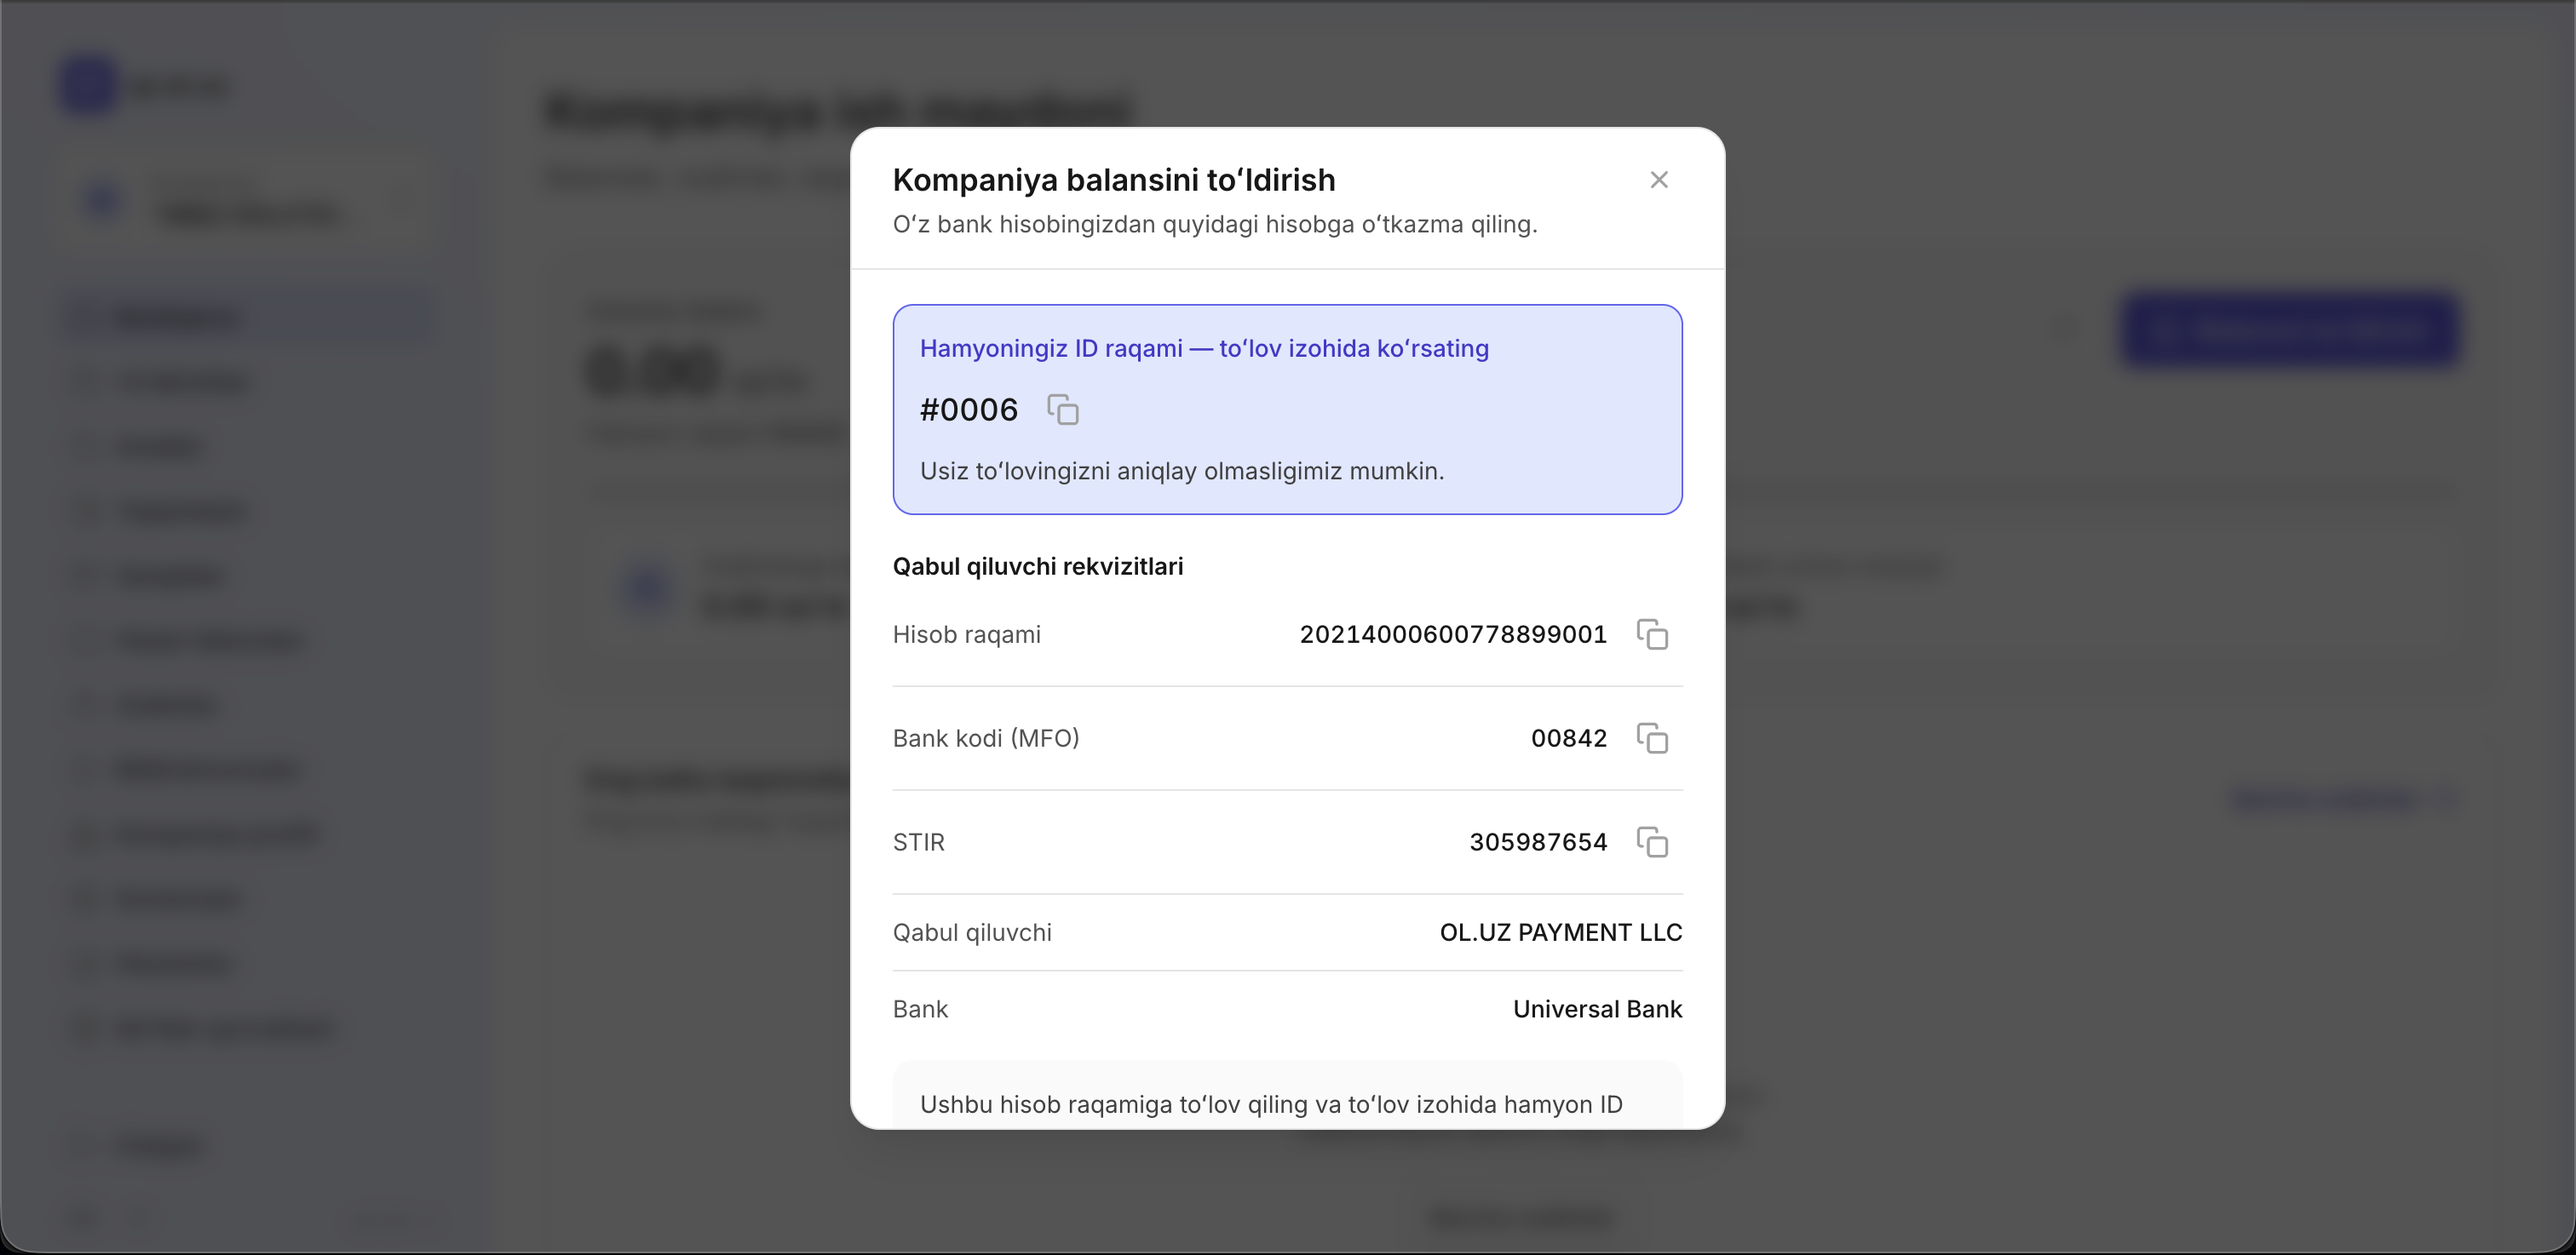
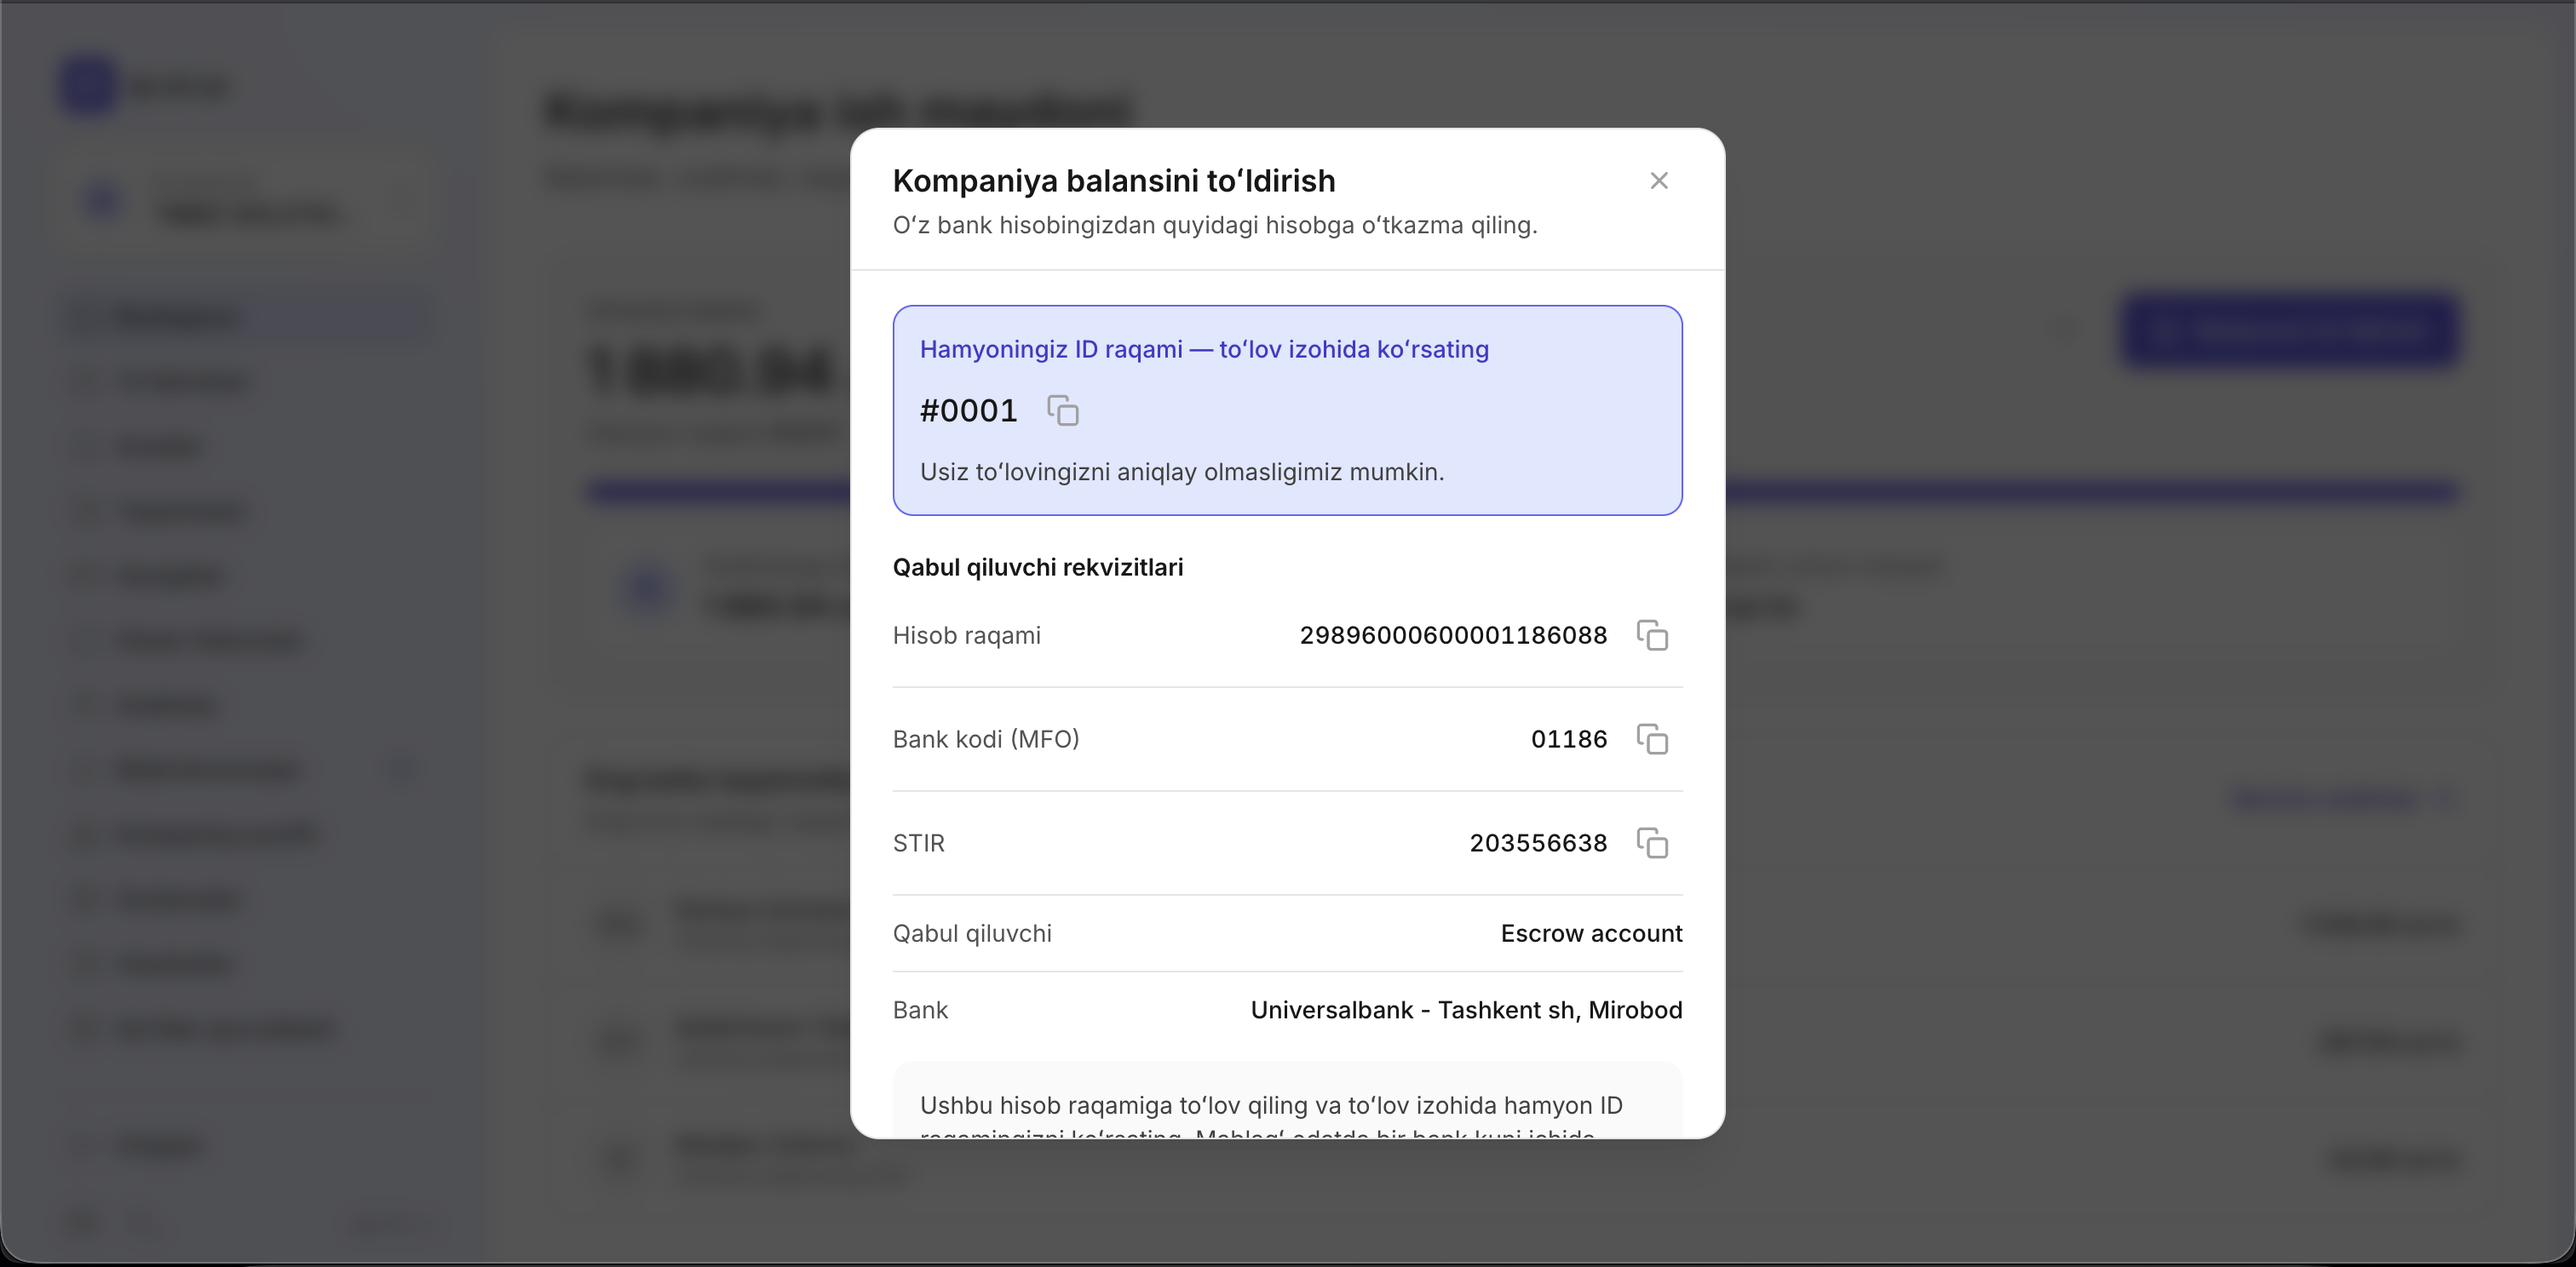
fix: Adjust formatting and improve clarity in kompaniya.md

diff --git a/docs/kompaniya.md b/docs/kompaniya.md
@@ -5,7 +5,7 @@ Ushbu bo'limda kompaniyani ro'yxatdan o'tkazish, balansni to'ldirish, xodimlar q
 ## Ro'yxatdan o'tish
 
 !!! note "Oldindan tayyorlang"
-    Ro'yxatdan o'tish uchun [inbiz.uz](https://inbiz.uz/uz/) platformasida tasdiqlangan yuridik shaxs (kompaniya) hisobingiz va uning **e-imzo** sertifikati bo'lishi kerak.
+Ro'yxatdan o'tish uchun [inbiz.uz](https://inbiz.uz/uz/) platformasida tasdiqlangan yuridik shaxs (kompaniya) hisobingiz va uning **e-imzo** sertifikati bo'lishi kerak.
 
 1. [https://qr.ol.uz/uz/register](https://qr.ol.uz/uz/register) sahifasiga kiring.
 2. «qr.ol.uz'dan qanday foydalanasiz?» degan savolga **Kompaniya** variantini tanlang.
@@ -14,7 +14,7 @@ Ushbu bo'limda kompaniyani ro'yxatdan o'tkazish, balansni to'ldirish, xodimlar q
 ![Ro'yxatdan o'tish sahifasi — Kompaniya varianti tanlangan](images/start_register_page.png)
 
 !!! tip "Avval ro'yxatdan o'tganmisiz?"
-    Xuddi shu tugma orqali tizimga qayta kirasiz — alohida «kirish» jarayoni shart emas.
+Xuddi shu tugma orqali tizimga qayta kirasiz — alohida «kirish» jarayoni shart emas.
 
 ### inbiz orqali kirish
 
@@ -31,15 +31,15 @@ Keyin inbiz sizdan qr.ol.uz bilan ma'lumot ulashishni tasdiqlashni so'raydi. **T
 inbiz'dan qaytganingizdan so'ng qr.ol.uz telefon raqamingizni so'raydi. Bu — oxirgi qadam: raqamingizni tasdiqlasangiz, keyingi safar e-imzosiz, faqat telefon raqami va SMS kod bilan kira olasiz.
 
 !!! warning "Bu qadamni o'tkazib yubormang"
-    Telefon raqamini tasdiqlamasangiz, har safar e-imzo bilan kirishga to'g'ri keladi.
+Telefon raqamini tasdiqlamasangiz, har safar e-imzo bilan kirishga to'g'ri keladi.
 
 1. Telefon raqamingizni kiriting va **Kod yuborish** tugmasini bosing.
 
-    ![Telefon raqamini kiritish sahifasi](images/redirected_phone_entry.png)
+   ![Telefon raqamini kiritish sahifasi](images/redirected_phone_entry.png)
 
 2. SMS orqali kelgan 6 xonali kodni kiriting va **Tasdiqlash** tugmasini bosing.
 
-    ![SMS kodni tasdiqlash sahifasi](images/redirected_otp_confirm.png)
+   ![SMS kodni tasdiqlash sahifasi](images/redirected_otp_confirm.png)
 
 Shu bilan ro'yxatdan o'tish yakunlanadi va siz kompaniya ish maydoniga o'tasiz.
 
@@ -53,7 +53,7 @@ Birinchi qiladigan ishingiz — **PIN kod** o'rnatish. Bu 5 xonali raqamli kod b
 ![Sozlamalar sahifasi — PIN kod bo'limi](images/settings_page.png)
 
 !!! info "Bitta PIN — barcha akkauntlar uchun"
-    PIN kod akkauntga emas, shaxsingizga bog'lanadi: kompaniya, merchant va xodim akkauntlaringizning barchasida bitta PIN ishlaydi. Uni bir joyda o'zgartirsangiz, hamma qurilma va akkauntlarda o'zgaradi.
+PIN kod akkauntga emas, shaxsingizga bog'lanadi: kompaniya, merchant va xodim akkauntlaringizning barchasida bitta PIN ishlaydi. Uni bir joyda o'zgartirsangiz, hamma qurilma va akkauntlarda o'zgaradi.
 
 ## Boshqaruv paneli
 
@@ -72,7 +72,7 @@ Kompaniya balansi bank o'tkazmasi orqali to'ldiriladi:
 
 1. Boshqaruv panelidagi **Balansni to'ldirish** tugmasini bosing — to'ldirish bo'yicha ko'rsatma ochiladi.
 2. Ko'rsatmada qr.ol.uz platformasining bank rekvizitlari (hisob raqami, MFO, STIR) ko'rsatilgan. Kompaniyangiz bank hisobidan aynan shu hisobga o'tkazma qiling.
-3. **To'lov izohida hamyoningiz ID raqamini (masalan, `#0006`) albatta ko'rsating** — usiz to'lovingiz qaysi kompaniyaga tegishli ekanini aniqlab bo'lmasligi mumkin.
+3. **To'lov izohida hamyoningiz ID raqamini (masalan, `#0001`) albatta ko'rsating** — usiz to'lovingiz qaysi kompaniyaga tegishli ekanini aniqlab bo'lmasligi mumkin.
 
 ![Balansni to'ldirish ko'rsatmasi — bank rekvizitlari](images/topup_instructions.png)
 
@@ -86,18 +86,18 @@ Chap menyudan **Xodimlar** sahifasiga o'ting. Bu yerda kompaniyangizga qo'shilga
 
 Yangi xodim qo'shish uchun **Xodim qo'shish** tugmasini bosing va quyidagi ma'lumotlarni kiriting:
 
-| Maydon | Izoh |
-| --- | --- |
-| Familiya, Ism | Majburiy |
-| Otasining ismi | Ixtiyoriy |
-| JSHSHIR (PINFL) | 14 xonali shaxsiy identifikatsiya raqami |
-| Telefon raqami | Xodim shu raqam orqali SMS kod bilan tizimga kiradi |
-| Lavozim | Ixtiyoriy |
+| Maydon          | Izoh                                                |
+| --------------- | --------------------------------------------------- |
+| Familiya, Ism   | Majburiy                                            |
+| Otasining ismi  | Ixtiyoriy                                           |
+| JSHSHIR (PINFL) | 14 xonali shaxsiy identifikatsiya raqami            |
+| Telefon raqami  | Xodim shu raqam orqali SMS kod bilan tizimga kiradi |
+| Lavozim         | Ixtiyoriy                                           |
 
 ![Xodim qo'shish formasi](images/employee_add_form.png)
 
 !!! info "Xodimga parol kerak emas"
-    Xodim siz kiritgan telefon raqami orqali [qr.ol.uz](https://qr.ol.uz) saytiga kiradi — SMS kod bilan, parolsiz.
+Xodim siz kiritgan telefon raqami orqali [qr.ol.uz](https://qr.ol.uz) saytiga kiradi — SMS kod bilan, parolsiz.
 
 ### Xarajat ruxsatlarini sozlash
 
@@ -110,7 +110,7 @@ Xodim qatoriga bossangiz, o'ng tomonda **Xodim xarajatlari** oynasi ochiladi. Bu
 ![Xodim xarajat ruxsatlari — toifalar va kompaniya balansiga ruxsat](images/employee_permissions.png)
 
 !!! warning "Toifa yoqilmagan bo'lsa, to'lov o'tmaydi"
-    Xodim faqat unga yoqilgan toifalarga tegishli do'konlarda to'lov qila oladi. Hech bir toifa yoqilmagan xodim to'lov qila olmaydi.
+Xodim faqat unga yoqilgan toifalarga tegishli do'konlarda to'lov qila oladi. Hech bir toifa yoqilmagan xodim to'lov qila olmaydi.
 
 ## Akkauntlar o'rtasida almashish
 
